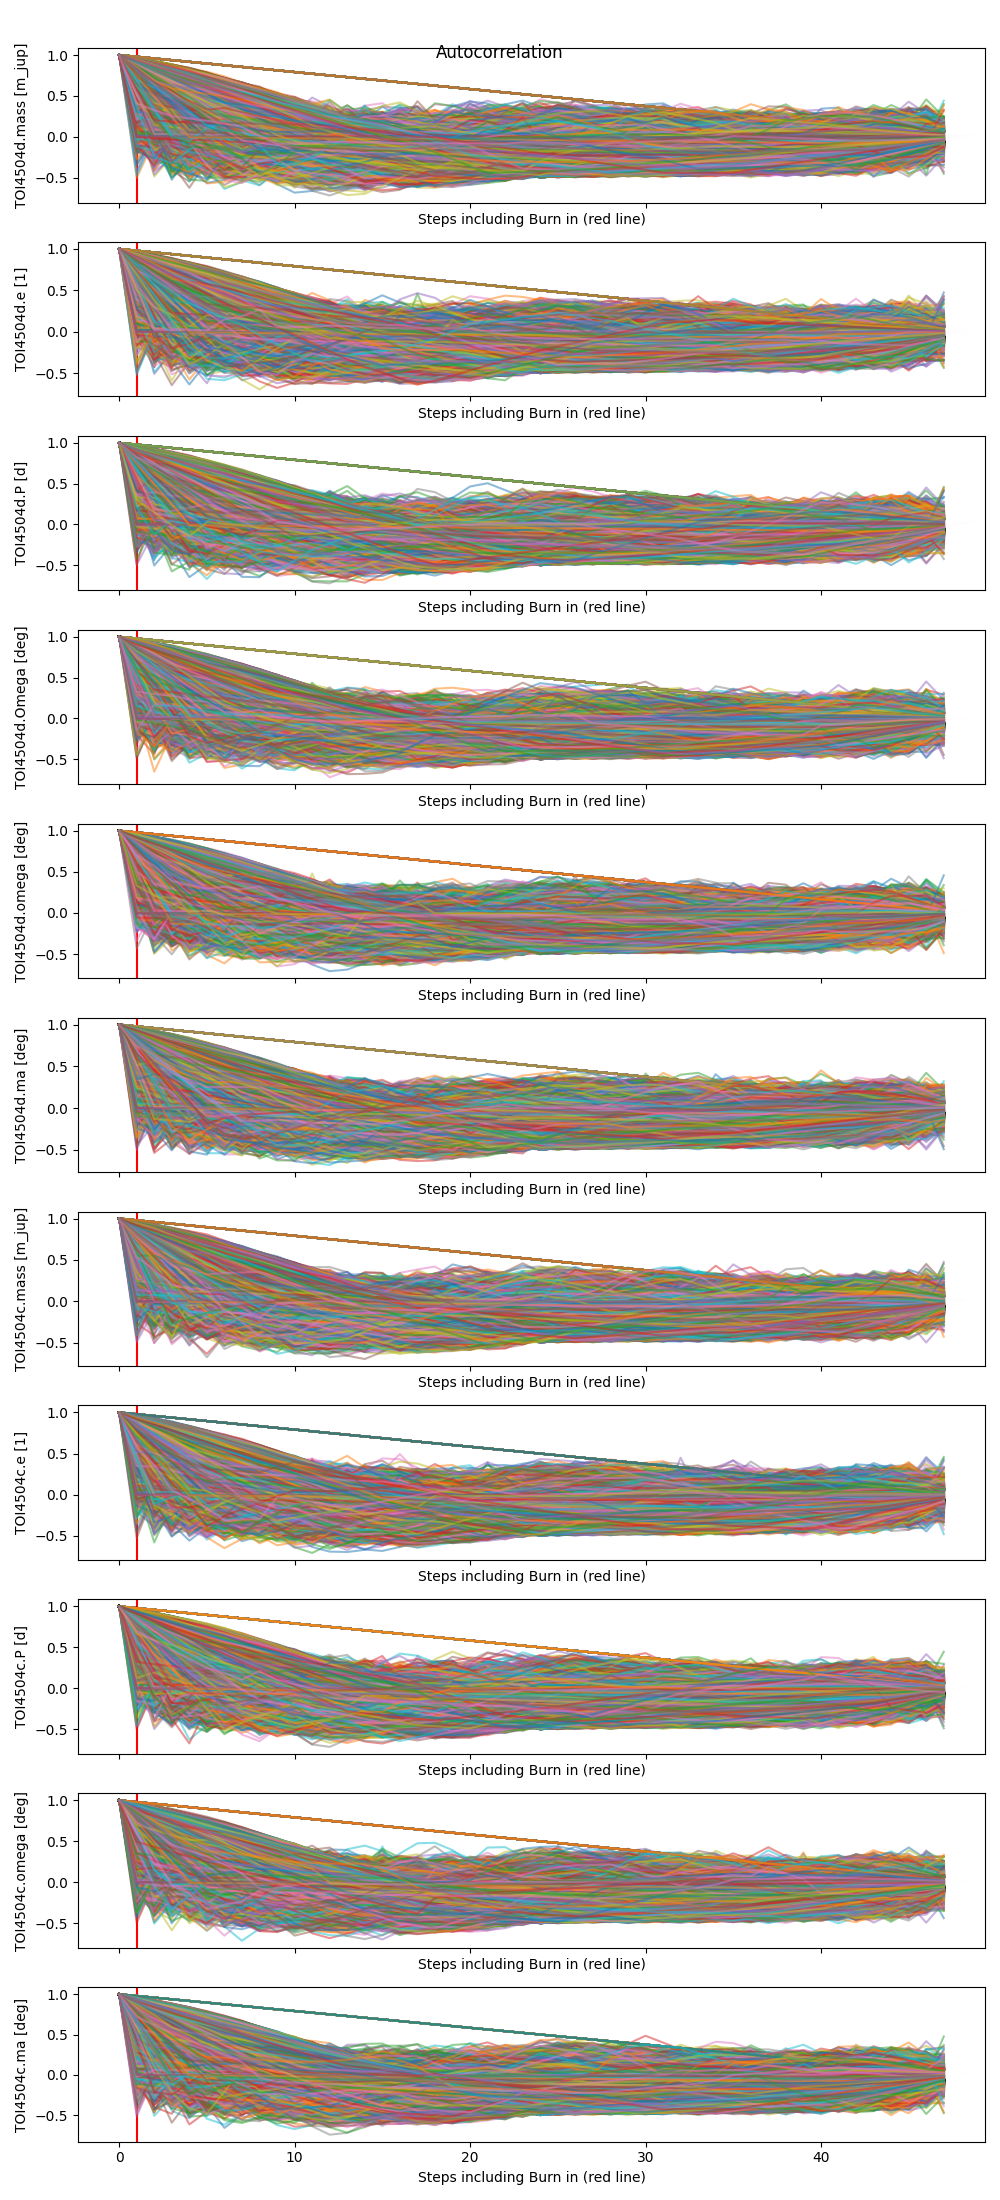
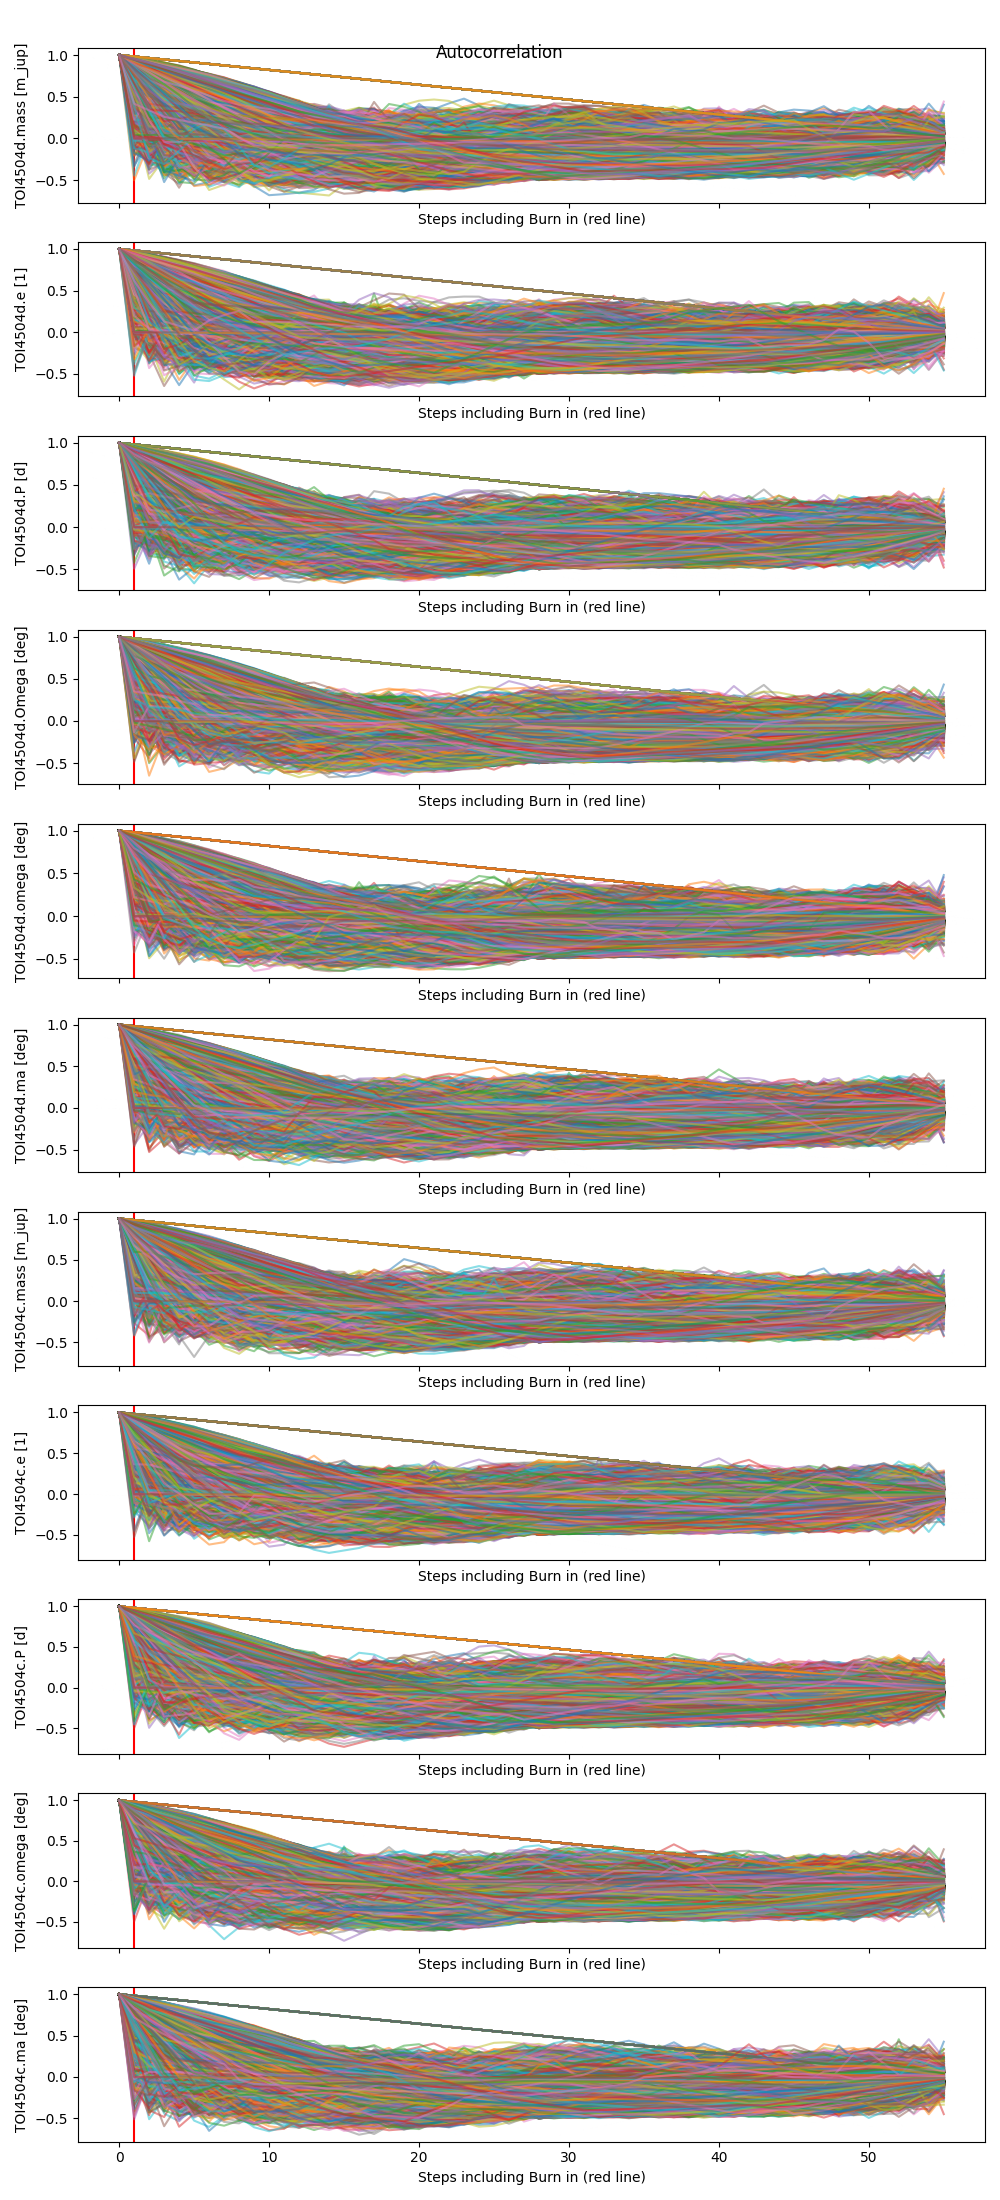
0.5.6 Fitting TOI-4504

diff --git a/src/run_curvesim.py b/src/run_curvesim.py
@@ -23,7 +23,7 @@ from curvesimulator import CurveSimulator
 
 def main():
     # curvesimulation = CurveSimulator(config_file="../configurations/Sim/TOI-4504_SIM_X045.ini")
-    curvesimulation = CurveSimulator(config_file="../configurations/TOI4504/TOI-4504_X046.ini")
+    curvesimulation = CurveSimulator(config_file="../configurations/TOI4504/TOI-4504_X047.ini")
     print(curvesimulation)
 
 
